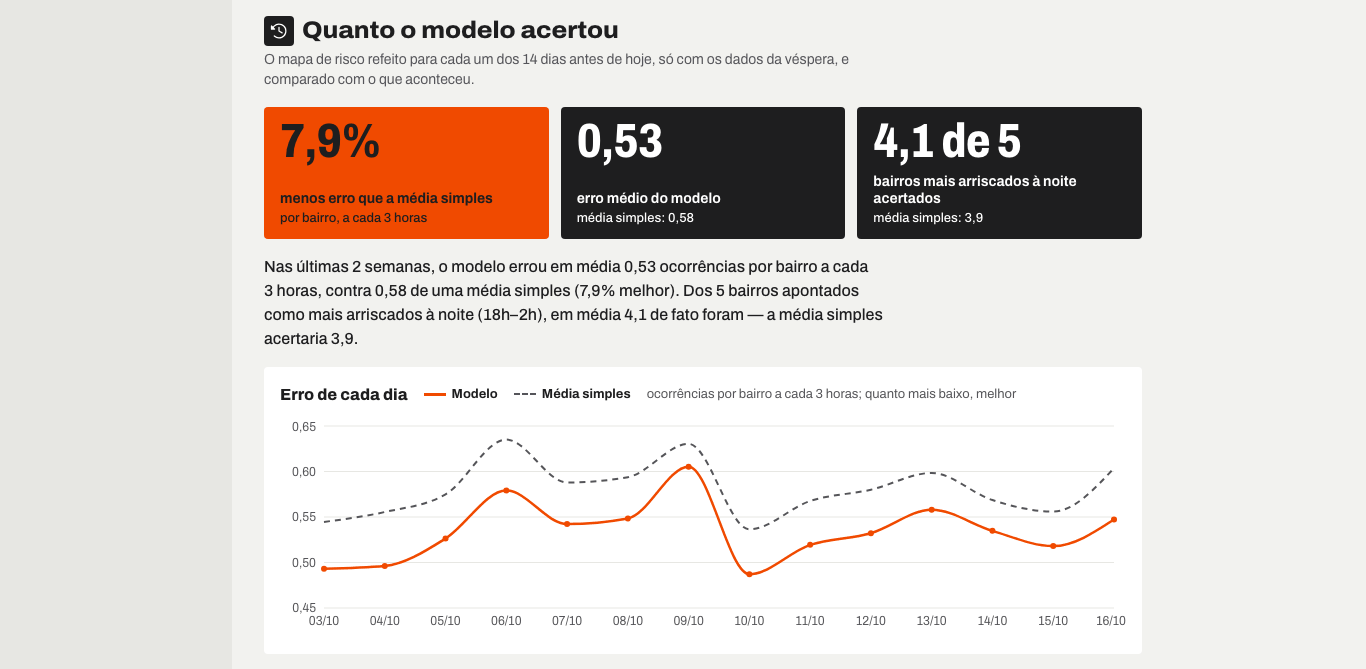
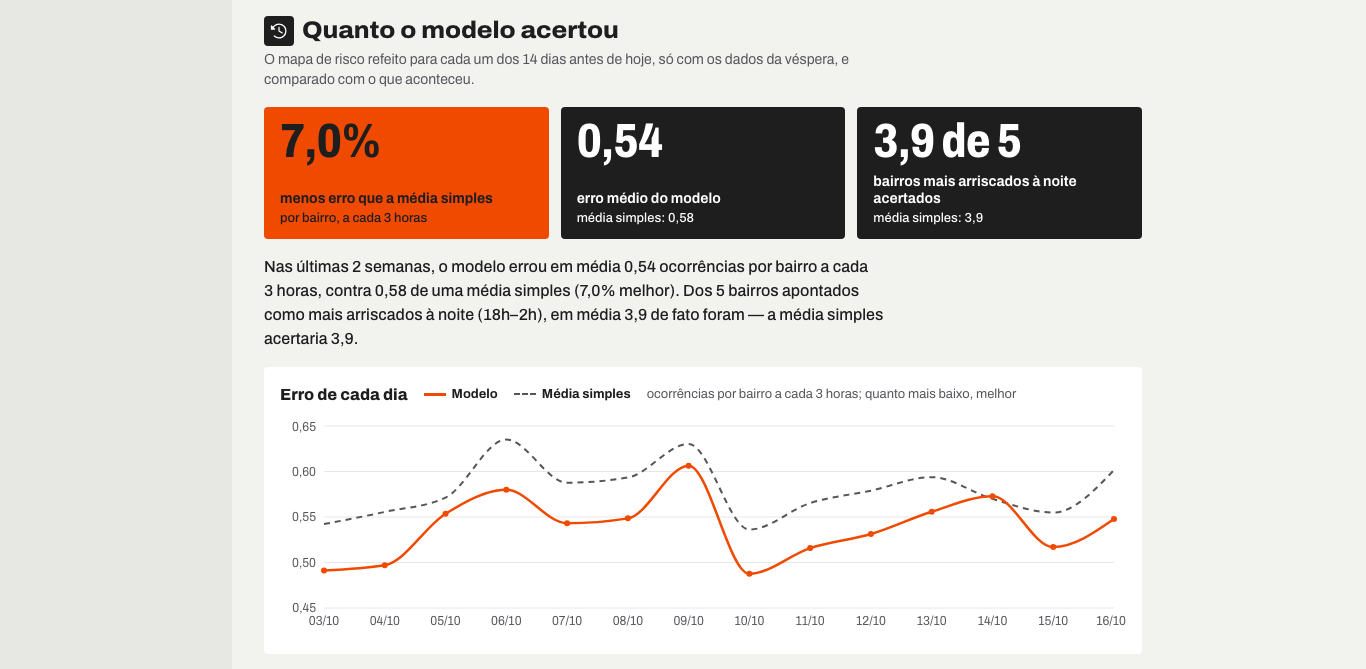
docs: números de uma medição nova (17/10/2026), regra do índice e comandos do Windows
- Teste retroativo, falhas, tendências, tempo da semente e a cena 60× + acidente
  injetado medidos num banco novo; o ganho caiu para 7,0% com a previsão de chuva
  guardada e o top-5 empata com a média simples, dito sem rodeio.
- Exemplo do risco refeito com os números do código (base, perfil da região, p99).
- Pergunta 9 do guia igual à declaração de IA do README.
- Regra do índice das regiões no ritmo real, furtos que só fecham com uma pessoa,
  previsões que aprendem só com o histórico (também depois de reiniciar).
- README: Node 22.14, comandos do PowerShell/cmd, token + leitura no PowerShell,
  rota do teste retroativo e métricas em /api/tipos-equipamento.
- Tela do teste retroativo trocada (7,0%, 0,54, 3,9 de 5).

diff --git a/docs/GUIA-DO-TIME.md b/docs/GUIA-DO-TIME.md
@@ -1,6 +1,6 @@
 # Guia do time — como explicar o F.O.G.O.
 
-Este guia é para quem vai **apresentar e responder à comissão**. A regra do desafio é demonstrar que vocês entendem o que a IA construiu: leiam, abram os arquivos citados e rodem o sistema enquanto estudam. Tudo aqui foi conferido contra o código e os testes.
+Este guia é para quem vai **apresentar e responder à comissão**. A regra do desafio é demonstrar que vocês entendem o que a IA construiu: leiam, abram os arquivos citados e rodem o sistema enquanto estudam. As fórmulas foram conferidas contra o código. Os números com data saíram de **uma só medição**, num banco novo criado em **17/10/2026 às 20h53** (sábado): no dia em que vocês rodarem, eles mudam um pouco, porque o histórico de 60 dias termina na hora em que o banco é criado. A força dos padrões plantados (seção 3) é a da calibração da semente, e os testes de `server/semente` exigem os limites.
 
 **Antes de qualquer coisa:** rodem `npm install && npm start`, abram http://localhost:3333 e façam o roteiro do README ("O que olhar primeiro"). Ver funcionando vale mais que decorar.
 
@@ -63,9 +63,9 @@ Quando o problema passa, o caminho inverso: três leituras normais seguidas fech
 
 ## 3. Como a semente planta os padrões
 
-`server/semente/` cria, **na primeira partida**, 65 bairros reais, 350 equipamentos, 80 agentes e 60 dias de histórico (cerca de 17,6 mil ocorrências e 452 mil horas de telemetria) em ~1,5 s. Tudo sai de um gerador com **semente fixa (2026)**: mesma semente, mesma cidade. Não há `Math.random()`.
+`server/semente/` cria, **na primeira partida**, 65 bairros reais, 350 equipamentos, 80 agentes e 60 dias de histórico (17.643 ocorrências e 451.957 horas de telemetria em 3,6 s, medidos em 17/10/2026). Tudo sai de um gerador com **semente fixa (2026)**: mesma semente, mesma cidade. Não há `Math.random()`.
 
-Os padrões são colocados de propósito em `historico.ts` e `perfis.ts`; a previsão deve **redescobri-los**. Força medida (semente padrão):
+Os padrões são colocados de propósito em `historico.ts` e `perfis.ts`; a previsão deve **redescobri-los**. Força medida na calibração da semente padrão:
 
 | Padrão plantado | Medido |
 |---|---|
@@ -78,43 +78,46 @@ Os padrões são colocados de propósito em `historico.ts` e `perfis.ts`; a prev
 | Sinal cai 12–48 h **antes** de uma falha | 45 min online/h nas 24 h antes, contra 58 no geral |
 | Equipes "negligentes" deixam manutenção atrasar | 10 equipamentos atrasados |
 
-Os testes (`server/semente/*.test.ts`) exigem esses limites. Outros cuidados: reiniciar com o banco existente **não duplica** nada; se o avaliador abrir dias depois, `preencherLacuna` gera as horas que faltam até "agora" (guarda o ponto em `meta.historico_ate`).
+Os testes (`server/semente/*.test.ts`) exigem esses limites. Outros cuidados: reiniciar com o banco existente **não duplica** nada; se o avaliador abrir dias depois, `preencherLacuna` gera as horas que faltam até "agora" (guarda o ponto em `meta.historico_ate`) e completa a hora em que o servidor parou (sem isso, todo equipamento ganhava "1 hora com sinal fraco"). A semente também guarda, para cada dia, a **previsão do tempo da véspera** (`clima_dia.chuva_prevista_mm` = a chuva que cai mais um erro: 80% dos dias de chuva são anunciados, e 10% dos dias secos têm alarme falso).
 
 ---
 
 ## 4. Cada previsão, com um exemplo numérico
 
-Todas estão em `server/preditivo/`, em TypeScript simples. A **base comum** (`base.ts`) usa as 8 últimas semanas, só ocorrências de origem `historico`.
+Todas estão em `server/preditivo/`, em TypeScript simples. A **base comum** (`base.ts`) usa as 8 últimas semanas, só ocorrências de origem `historico`, e **nada depois do fim do histórico** (`fimDosDados` = `meta.historico_ate` + 1 h). Falhas e tendências seguem a mesma regra; as mudanças de situação feitas ao vivo levam a marca `ao_vivo` e ficam de fora mesmo depois de reiniciar.
 
 ### 4.1 Risco por bairro e hora (`risco.ts`)
-`taxa = base do bairro × perfil da região no dia da semana e hora × chuva do dia × tendência da cidade`.
-- **Base do bairro** (suavizada): `(ocorrências + 20 × média dos bairros) ÷ (horas + 20)`. O Centro: (1.692 + 3,8) ÷ 1.364 h = **1,24/h**. A suavização evita que um bairro com poucos dados vire extremo.
-- **Perfil**: taxa da região naquele horário ÷ taxa média, puxado para o perfil da cidade quando há poucos dados. Dia útil às 18 h: **2,15**; terça às 3 h: **0,36**.
-- **Índice 0–100** = `100 × taxa ÷ p99 do período`. Centro na terça às 3 h: 1,24 × 0,36 × 0,98 = 0,44 → **33 (moderado)**; sexta às 18 h: 2,63 → **100 (crítico)**.
-- Níveis: < 25 baixo, < 50 moderado, < 75 alto, ≥ 75 crítico. Os "fatores" mostram o que pesou (ex.: "Região Centro na sexta à noite ×1,73").
-- A janela de 7 dias é em blocos de 3 h (resposta menor).
+`taxa = base do bairro × perfil da região no dia da semana e hora × chuva prevista do dia × tendência da cidade`. Exemplo da medição de 17/10/2026 (bairro Centro, região Centro, previsão das 20 h de sábado em diante):
+- **Base do bairro** (suavizada): `(ocorrências + 20 × média dos bairros) ÷ (horas + 20)`. O Centro teve 1.681 ocorrências em 1.344 h; bairro médio 0,187/h → (1.681 + 20 × 0,187) ÷ 1.364 = **1,235/h** (sem suavizar daria 1,251). A suavização evita que um bairro com poucos dados vire extremo.
+- **Perfil da região** (dia da semana × hora): `(ocorrências da região no horário ÷ média da região + 8 × perfil da cidade) ÷ (horas do horário + 8)`. Sábado às 22 h, região Centro: 74 ocorrências nessas 8 horas, média da região 4,05/h → 74 ÷ 4,05 = 18,3; perfil da cidade 1,50 → (18,3 + 8 × 1,50) ÷ 16 = **1,89**. Domingo às 3 h: 13 ÷ 4,05 = 3,2; cidade 0,36 → **0,38**.
+- **Chuva**: dias de chuva tiveram 15% mais ocorrências (11 dias de chuva, 44 secos → fator 1,15); vale só se a **previsão do tempo guardada** anuncia chuva para o dia. Neste sábado e domingo, nenhuma → ×1. **Tendência** da cidade (2 últimas semanas ÷ 6 anteriores): 0,98.
+- **Taxa**: sábado 22 h = 1,235 × 1,89 × 1 × 0,98 = **2,30** ocorrências; domingo 3 h = 1,235 × 0,38 × 1 × 0,98 = **0,46**.
+- **Índice 0–100** = `100 × taxa ÷ percentil 99 das taxas das próximas 24 h` (aqui 1,32). Sábado 22 h: 174 → **100 (crítico)**; domingo 3 h: 0,46 ÷ 1,32 = **35 (moderado)**.
+- Níveis: < 25 baixo, < 50 moderado, < 75 alto, ≥ 75 crítico. Os "fatores" mostram o que pesou: na tela, a célula do sábado 22 h diz "Bairro com histórico alto ×6,59" (1,235 ÷ 0,187) e "Região Centro no sábado à noite ×1,89".
+- A janela de 7 dias é em blocos de 3 h (a taxa do bloco é a soma das 3 horas; resposta menor).
 
 ### 4.2 Teste retroativo (`backtest.ts`): "como sabem que funciona?"
-Para cada um dos 14 dias completos anteriores, **corta o histórico na meia-noite**, recalcula tudo só com o que se sabia até ali, prevê as 24 h e compara com o que aconteceu.
-- **Erro (MAE)** por bairro em blocos de 3 h, contra a "média simples do bairro". Em 17/10: 0,53 × 0,58 → 8% melhor. Nas medições de outubro: entre ~7% e ~9% (a tela recalcula todo dia).
-- **Top 5**: dos 5 bairros previstos como mais arriscados à noite (18h–2h), quantos de fato estiveram entre os 5 com mais ocorrências: ~4 de 5 (a média simples também acerta ~3,9).
-- **Por que não mais?** Com 0 ou 1 ocorrência por bairro e hora, a sorte domina. Rodamos o próprio gerador 600 vezes para estimar as taxas verdadeiras: mesmo quem **sabe a resposta** só melhora ~10%. O modelo chega a ≈ 82% desse teto.
+Para cada um dos 14 dias completos anteriores, **corta o histórico na meia-noite**, recalcula tudo só com o que se sabia até ali, prevê as 24 h e compara com o que aconteceu. A chuva do dia avaliado entra pela **previsão do tempo guardada**, não pela chuva que caiu: nada do próprio dia entra na conta.
+- **Erro (MAE)** por bairro em blocos de 3 h, contra a "média simples do bairro". Em 17/10/2026 (dias 03/10 a 16/10): 0,54 × 0,58 → **7,0% melhor**.
+- **Top 5**: dos 5 bairros previstos como mais arriscados à noite (18h–2h), quantos de fato estiveram entre os 5 com mais ocorrências: **3,9 de 5**, empatado com a média simples (3,9). Digam isso sem rodeio: o ganho do modelo está no horário, não na escolha dos 5 bairros.
+- **Por que não mais?** Com 0 ou 1 ocorrência por bairro e hora, a sorte domina. Rodamos o próprio gerador 600 vezes para estimar as taxas verdadeiras: mesmo quem **sabe a resposta** só melhora ~10%. O modelo chega a ≈ 70% desse teto. Quando o teste usava a chuva observada, dava ~8%; trocamos pela previsão guardada para o dia avaliado não vazar, e mostramos o número novo.
 
 ### 4.3 Reforço de agentes (`reforco.ts`)
-`carga por agente = ocorrências esperadas na região no turno ÷ agentes escalados`. Guloso, 1 agente por vez, da região mais folgada para a mais carregada, **enquanto** a maior carga estiver ≥ 20% acima da média da cidade e a origem não fique pior que o destino; no máximo 3 mudanças por turno. Exemplo (tarde de quinta): Centro 43 ocorrências ÷ 7 agentes = 6,1; Zona Leste 8,1 ÷ 3 = 2,7; mover 1 → Centro 5,4, Leste 4,1; ninguém acima do limite 6,0, para. Por que sugere o Centro? Ele tem ~33% das ocorrências com 25% dos agentes.
+`carga por agente = ocorrências esperadas na região no turno ÷ agentes escalados`. Guloso, 1 agente por vez, da região mais folgada para a mais carregada, **enquanto** a maior carga estiver ≥ 20% acima da média da cidade e a origem não fique pior que o destino; no máximo 3 mudanças por turno. Exemplo da medição de 17/10/2026 (noite de sábado, 22h às 6h): região Centro com 31,8 ocorrências esperadas para 5 agentes = 6,4 por agente, contra 2,0 na Zona Leste → mover 1 da Leste: Centro cai para 5,3; ainda acima do limite, vem 1 da Zona Norte (2,1 por agente): Centro 4,5. Por que sempre o Centro? Ele tem ~33% das ocorrências (4,05 por hora de 12,2 na cidade) com 25% dos agentes (20 de 80).
 
 ### 4.4 Chance de falha em 7 dias (`falhas.ts`)
 `λ = λ_tipo × fator_modelo × (1 + anos/5) × min(3, 1 + dias_de_atraso/30) × (1 + quedas_72h/3)` e `chance = 1 − e^(−7λ)` (Poisson: chance de pelo menos 1 falha em 7 dias).
 - `λ_tipo` = falhas do tipo ÷ (frota × 60 dias), **dividido pelo equipamento típico** (mediana dos fatores). Sem isso, a fórmula contava duas vezes a idade e o atraso médios e previa 1,87× as falhas reais.
-- `fator_modelo` = (falhas do modelo + 3) ÷ (falhas esperadas + 3). Vigilux VX-200: (51 + 3) ÷ (27,7 + 3) = **1,76**.
-- Exemplo: câmera com λ = 0,02/dia → 1 − e^(−0,14) = **13%**. A tela mostra "mais de 99%" em vez de "100%", porque nunca é certeza.
-- **Retroativo**: refaz a conta como se fosse 7 dias atrás. Em 4 semanas: 135 previstas × 139 ocorridas (15/10). Na última semana de 17/10: 33 × 40. Os 10% mais arriscados concentram 19–28% das falhas (acaso = 10%).
+- `fator_modelo` = (falhas do modelo + 3) ÷ (falhas esperadas + 3). Câmeras (17/10/2026): 79 falhas em 60 câmeras em 60 dias = 0,022/dia; Vigilux VX-200, 51 falhas em 21 câmeras, onde a média do tipo daria 0,022 × 21 × 60 = 27,7 → (51 + 3) ÷ (27,7 + 3) = **1,76**.
+- Exemplo: câmera com λ = 0,02/dia → 1 − e^(−0,14) = **13%**. A primeira da fila em 17/10/2026, FOGO-CAM-0059 (VX-200, 7,6 anos, 37 horas com sinal fraco nas últimas 72 h), aparece com 99%. A tela mostra "mais de 99%" em vez de "100%" quando passa disso, porque nunca é certeza.
+- **Só o histórico**: as falhas contadas, as quedas de sinal e a data de manutenção que entram no modelo são as do fim do histórico; a lista mostra quem está em operação **agora** (um equipamento que o simulador consertou volta para ela).
+- **Retroativo**: refaz a conta como se fosse 7 dias antes do fim do histórico. Em 17/10/2026: **32 previstas (31,6) × 40 ocorridas**; os 10% mais arriscados concentraram **28%** das falhas (acaso = 10%). Depois de 3 minutos a 60× (68 falhas ao vivo), os mesmos números.
 
 ### 4.5 Anomalias (`tempo-real/anomalias.ts`)
-`z = (leitura − média) ÷ desvio`, da mesma hora e tipo de dia (sábado compara com sábado). Alerta com |z| ≥ 3; desvio moderado precisa de 2 leituras seguidas; há piso de desvio (20% da média) para não alarmar por contagens baixas. Medimos: sem esses cuidados eram ~0,9 alertas falsos por minuto; com eles, ~0,09.
+`z = (leitura − média) ÷ desvio`, da mesma hora e tipo de dia (sábado compara com sábado). Alerta com |z| ≥ 3; desvio moderado precisa de 2 leituras seguidas; há piso de desvio (20% da média) para não alarmar por contagens baixas. Na construção do detector, esses cuidados derrubaram os alarmes falsos em cerca de 10 vezes (medição daquela etapa, não refeita nesta).
 
 ### 4.6 Tendências (`tendencias.ts`) e resumo (`resumo.ts`)
-Disponibilidade diária por tipo = tempo operacional ÷ tempo que conta (sem desativado/não instalado), reconstruída do `historico_situacao`; projeção = reta de mínimos quadrados de 30 pontos estendida por 7 dias. **Ela perde** para "repetir a média de 30 dias" (erro 4,9 × 4,1 p.p.) numa cidade estável, e a tela avisa. O resumo escolhe as melhores recomendações de cada fonte (máx. 5) e calcula o índice dos bairros.
+Disponibilidade diária por tipo = tempo operacional ÷ tempo que conta (sem desativado/não instalado), reconstruída do `historico_situacao` (só a parte do histórico); projeção = reta de mínimos quadrados de 30 pontos estendida por 7 dias. **Ela perde** para "repetir a média de 30 dias" numa cidade estável (17/10/2026: erro 4,9 × 4,1 p.p.; repetir o último valor, 4,4), e a tela avisa. Falhas por modelo: o Vigilux VX-200 teve 243 falhas por 100 câmeras, contra 66 do modelo mediano. O resumo escolhe as melhores recomendações de cada fonte (máx. 5) e calcula o índice dos bairros.
 
 ---
 
@@ -125,13 +128,17 @@ Disponibilidade diária por tipo = tempo operacional ÷ tempo que conta (sem des
 - Manutenção "agendada" ou "periódica" exige a próxima data.
 - Equipamento **furtado** não volta a "operacional" sem registro de recuperação.
 - **Excluir** equipamento com histórico (telemetria, alertas, agente vinculado) é **recusado**, com mensagem sugerindo **desativar**.
-- Editar um equipamento (PUT) **não apaga** posição atual, último sinal nem situação vinda da telemetria; trocar o tipo é recusado.
-- Registrar manutenção concluída reinicia o calendário (próxima = última + periodicidade) e devolve o equipamento a operacional, com histórico.
+- Editar um equipamento (PUT) **não apaga** posição atual, último sinal nem situação vinda da telemetria; trocar o tipo é recusado. Se a pessoa não mexeu no grupo de manutenção, o formulário nem manda essas datas e o servidor mantém as gravadas (um reparo concluído com o formulário aberto não é desfeito).
+- Editar um agente não muda a situação dele (em serviço, em ocorrência…): ela segue o turno e as ocorrências e só muda por "Mudar situação".
+- Registrar manutenção concluída reinicia o calendário (próxima = última + periodicidade) e devolve o equipamento a operacional, com histórico; se havia uma prevista do mesmo tipo, é ela que fica concluída. Agendar a mesma manutenção duas vezes dá **409** ("Já existe uma manutenção prevista para este equipamento").
+- Mudar a situação pela tela: tirar de **furtado** devolve o equipamento ao ponto cadastrado e fecha o alerta de furto; voltar a **operacional** fecha os alertas da falha e faz o simulador voltar a ouvi-lo.
 - Busca ignora acento e maiúsculas, e trata `%`, `_` e aspas como texto comum ("marilia" acha "Marília"; "50%" não casa tudo).
 - Equipamentos "não instalados" e "desativados" não entram no cálculo de disponibilidade.
 - Posição de equipamento móvel vem da telemetria; fixos usam o cadastro. Patinete fora de Marília gera alerta.
 
-**Como os alertas abrem e fecham:** abrem por anomalia, sem sinal por mais de 15 min, falha, furto suspeito, alagamento (sensor), manutenção atrasada e ocorrência. Um alerta igual **não se repete** enquanto o anterior estiver aberto. Fecham sozinhos quando a causa termina (ver seção 2); **furto suspeito e manutenção atrasada precisam de gente** (a atrasada fecha ao registrar a manutenção).
+**Como os alertas abrem e fecham:** abrem por anomalia, sem sinal por mais de 15 min, falha, furto suspeito, alagamento (sensor), manutenção atrasada e ocorrência. Um alerta igual **não se repete** enquanto o anterior estiver aberto. Fecham sozinhos quando a causa termina (ver seção 2); **furto suspeito e manutenção atrasada precisam de gente** (o furto fecha quando alguém registra a recuperação ou resolve o alerta; a atrasada, ao registrar a manutenção). O **acidente injetado** usa sempre a gravidade máxima (4 de 4), então sempre abre alerta crítico.
+
+**Índice das regiões no ritmo real:** cada ocorrência das últimas 3 h soma 4 pontos ao bairro, mas a gerada ao vivo pesa 1 ÷ (8 × velocidade em que começou), porque o simulador gera 8 vezes o ritmo real (vezes 10 ou 60); histórico e injetadas pesam 1. Assim 60× não pinta todas as regiões de vermelho (17/10/2026, depois de 3 min a 60×: só a região Centro crítica).
 
 ---
 
@@ -139,7 +146,10 @@ Disponibilidade diária por tipo = tempo operacional ÷ tempo que conta (sem des
 
 | Decisão | Por quê |
 |---|---|
-| Aprender só do histórico, não do simulador | O simulador acelera eventos (até 60×): 10 min a 60× = ~10 dias de ocorrências. Aprender com ele deformaria a previsão. |
+| Aprender só do histórico, não do simulador | O simulador acelera eventos (até 60×): em 17/10/2026, 3 min a 60× geraram 68 falhas, quase 1/4 das 286 do histórico inteiro de 60 dias. Aprender com ele deformaria a previsão. |
+| Ocorrência ao vivo com peso no índice das regiões | Sem o peso, 3 min a 60× deixavam as 5 regiões críticas por 3 horas reais. Com 1 ÷ (8 × velocidade), o índice mede a cidade no ritmo real e o acidente injetado (peso 1) continua aparecendo. |
+| Teste retroativo com a previsão do tempo guardada | Usar a chuva que caiu no dia avaliado era deixar o futuro vazar. O ganho caiu de ~8% para 7,0% e mostramos o número novo. |
+| Acidente injetado sempre na gravidade máxima | A demonstração fica previsível: o alerta crítico aparece toda vez. |
 | Relógio da simulação = relógio real | Nunca grava datas no futuro; "próximas 24 h" continua coerente. A velocidade só multiplica o ritmo dos eventos. |
 | Perfil por **região** e dia da semana | O perfil único da cidade escondia "sexta à noite no Centro"; por região o padrão aparece. |
 | Tendência da **cidade**, não do bairro | Por bairro, 10 de 65 batiam no limite por puro ruído e o acerto caía abaixo da média simples. |
@@ -153,13 +163,13 @@ Disponibilidade diária por tipo = tempo operacional ÷ tempo que conta (sem des
 ## 7. Como rodar os testes
 
 ```bash
-npm test             # 347 testes em 46 arquivos (~10 s)
+npm test             # 376 testes em 52 arquivos (~40 s numa máquina livre)
 npx vitest run server/preditivo      # só as previsões
 npm run typecheck    # TypeScript estrito
 npm run e2e          # fumaça: Central (6 indicadores + mapa), Previsões, ≥ 10 equipamentos
 ```
 
-Para mostrar a comissão: rodem `npm test` na tela e apontem os testes de `server/preditivo/backtest.test.ts` (provam que cortar o histórico não "vaza" o futuro) e `server/tempo-real/resolucao-automatica.test.ts`.
+Para mostrar a comissão: rodem `npm test` na tela e apontem os testes de `server/preditivo/backtest.test.ts` (provam que cortar o histórico não "vaza" o futuro, nem a chuva do próprio dia), `server/preditivo/vazamento-simulacao.test.ts` (10 min a 60× e um reinício não mudam as previsões), `server/servicos/regioes-velocidade.test.ts` (60× não pinta todas as regiões) e `server/tempo-real/resolucao-automatica.test.ts`.
 
 ---
 
@@ -169,19 +179,19 @@ Para mostrar a comissão: rodem `npm test` na tela e apontem os testes de `serve
 2. **Por que SQLite?** Zero instalação (um arquivo que o sistema cria sozinho), SQL puro e fácil de explicar, e rápido o bastante para 350 equipamentos e meio milhão de leituras. Para uma cidade de verdade com leituras a cada segundo, trocaríamos a telemetria por um banco de séries temporais.
 3. **Por que SSE e não WebSocket?** O fluxo é só do servidor para a tela, e SSE faz isso com HTTP simples, reconexão automática e menos código. WebSocket serve para conversa nos dois sentidos, que aqui não precisamos (as ações usam a API REST).
 4. **Como sabem que a previsão funciona?** Com teste retroativo: refazemos a previsão como se fosse ontem, 14 dias seguidos, e comparamos com o que aconteceu e com uma regra simples. Está na tela, com a data do cálculo.
-5. **Por que o ganho é de só ~8%?** Por bairro e hora há quase sempre 0 ou 1 ocorrência; a sorte domina. Mesmo conhecendo as taxas verdadeiras o limite seria ~10%. Preferimos o número honesto.
+5. **Por que o ganho é de só ~7%?** Por bairro e hora há quase sempre 0 ou 1 ocorrência; a sorte domina. Mesmo conhecendo as taxas verdadeiras o limite seria ~10%. E o teste não deixa nem a chuva do dia avaliado entrar (usa a previsão do tempo guardada). Preferimos o número honesto.
 6. **Os dados são reais?** Bairros, ruas e limite são reais (OpenStreetMap). Equipamentos, agentes e ocorrências são sintéticos, com padrões plantados de propósito, declarados no README.
 7. **Então a previsão só acha o que vocês plantaram?** Sim, e isso é a prova do método: se ele não achasse, estaria errado. Numa cidade real, o ajuste seria com os dados reais; o código e o teste retroativo continuam valendo.
 8. **E se fosse uma cidade real?** Trocaríamos a semente pela ingestão real (a `POST /api/telemetria` já é a porta que um equipamento usaria), usaríamos autenticação por usuário, banco para séries temporais e o teste retroativo para validar antes de confiar.
-9. **O que a IA fez e o que vocês fizeram?** O Claude Code (Opus 5.5 orquestrando e revisando, Sonnet 5.5 implementando) escreveu o código sob um plano e revisão por tarefa. Nós revisamos, rodamos e estudamos cada módulo e sabemos explicá-lo (este guia). Está declarado no README.
+9. **O que a IA fez e o que vocês fizeram?** O código foi escrito com o Claude Code: o Claude Opus 5.5 orquestrou o trabalho, revisou e implementou as partes mais complexas; o Claude Sonnet 5.5 implementou e revisou tarefas; o Claude Haiku 5.5 fez revisões curtas. Cada tarefa teve testes escritos antes do código e revisão independente. Nós revisamos, testamos e estudamos cada módulo e sabemos explicá-lo (este guia). Está declarado no README, com as mesmas palavras.
 10. **Como um dado IoT chega à tela?** Seção 2: ingestão → anomalia → alerta → barramento → SSE → interface.
 11. **Como evitam alerta duplicado?** Cada alerta tem uma chave (`anomalia:<equipamento>:<métrica>`); enquanto houver um aberto com a chave, não se cria outro.
-12. **Como evitam alarme falso?** Comparação com o normal **do mesmo equipamento naquela hora e tipo de dia**, |z| ≥ 3, confirmação em 2 leituras e piso de desvio. Isso derrubou os falsos de ~0,9 para ~0,09 por minuto.
-13. **O que acontece se o servidor reinicia?** Nada duplica; o histórico que faltou é completado até agora; o simulador retoma as ocorrências abertas; e a tela reconecta sozinha ao SSE.
+12. **Como evitam alarme falso?** Comparação com o normal **do mesmo equipamento naquela hora e tipo de dia**, |z| ≥ 3, confirmação em 2 leituras e piso de desvio (seção 4.5).
+13. **O que acontece se o servidor reinicia?** Nada duplica; o histórico que faltou é completado até agora (inclusive a hora em que ele parou); o simulador retoma as ocorrências abertas; as falhas geradas ao vivo continuam fora das previsões (origem `ao_vivo`); e a tela reconecta sozinha ao SSE.
 14. **Como a manutenção preditiva decide?** Pela chance de falha em 7 dias: idade, atraso de manutenção, quedas de sinal recentes e confiabilidade do modelo. Cada item mostra os fatores que pesaram.
 15. **Como garantem que o GPS é de Marília?** Teste de ponto dentro do polígono do município (limite do OpenStreetMap + margem) no cadastro; patinete que sai gera alerta.
 16. **Segurança?** O token de dispositivo é comparado em tempo constante, nunca sai pela API, e o erro de autenticação não revela quais códigos existem. Entradas validadas com zod; SQL parametrizado. Não há login de usuário: é limitação declarada.
-17. **Desempenho?** Central povoada abre em ~250 ms; mapa e indicadores respondem em poucos ms; marcadores agrupados; SSE em lotes. A 60× por 10 s, 0 tarefas longas (≥ 50 ms) no navegador.
+17. **Desempenho?** Com a cidade povoada, os testes exigem mapa e indicadores em menos de 100 ms e regiões em menos de 200 ms (`server/servicos/central.test.ts`); marcadores agrupados; posições pelo SSE em lotes de 2 s; o simulador isola o erro de cada item para um problema não parar o tick.
 18. **Por que o modo escuro não é automático?** Decisão de produto: tema claro por padrão; a "Sala de controle" (escuro) é uma escolha de quem opera em ambiente com pouca luz.
 19. **Roda sem internet?** Sim, exceto o fundo do mapa (OpenStreetMap). O ViaCEP é opcional.
 20. **O que faltou ou faria depois?** Login e permissões, banco de séries temporais, validação com dados reais, e perfil por região também para a tendência. Os limites estão no README.
@@ -192,6 +202,6 @@ Para mostrar a comissão: rodem `npm test` na tela e apontem os testes de `serve
 
 - **Pessoa 1 — Inventário e dados** (≈ 3 min): cadastro, filtros, ficha, regras de negócio (seção 5), como a semente planta padrões (seção 3), API e Swagger.
 - **Pessoa 2 — Central em tempo real** (≈ 3 min): demonstração ao vivo (60× + injetar acidente), o caminho do dado (seção 2), alertas que abrem e fecham, SSE × WebSocket, desempenho.
-- **Pessoa 3 — Previsões e IA** (≈ 3 min): "o que prevê / dados / como ajuda / quão certa foi", um exemplo numérico de cada (seção 4), o teste retroativo e a honestidade sobre o 8%, declaração de uso de IA.
+- **Pessoa 3 — Previsões e IA** (≈ 3 min): "o que prevê / dados / como ajuda / quão certa foi", um exemplo numérico de cada (seção 4), o teste retroativo e a honestidade sobre o 7% (e o empate nos 5 bairros), declaração de uso de IA.
 
 Todos: respondam as perguntas da seção 8 que tocam a sua parte, e abram o código no arquivo citado quando a comissão pedir "mostra onde".

diff --git a/README.md b/README.md
@@ -12,13 +12,13 @@ São três partes, num único sistema:
 
 ## Como rodar em 1 minuto
 
-**Com Node.js 22 ou mais novo** (o `better-sqlite3` 13 exige Node ≥ 22; testado em 22):
+**Com Node.js 22.14 ou mais novo** (recomendado: a LTS atual). Confira com `node -v`: numa versão mais velha, o `npm start` para logo no começo com uma mensagem em português que sugere instalar a LTS ou usar o Docker (o `better-sqlite3` 13 traz o binário pronto para a Node-API 10, que chegou no Node 22.14).
 
 ```bash
 npm install && npm start
 ```
 
-Abra **http://localhost:3333**. Na primeira vez o sistema compila a interface e cria sozinho o banco `data/fogo.db` com a cidade inteira (cerca de 2 segundos). Não há banco, chave ou conta para configurar.
+Abra **http://localhost:3333**. Na primeira vez o sistema compila a interface e cria sozinho o banco `data/fogo.db` com a cidade inteira (poucos segundos: 3,6 s numa medição de 17/10/2026). Não há banco, chave ou conta para configurar.
 
 **Com Docker** (se preferir não instalar o Node):
 
@@ -28,14 +28,22 @@ docker compose up --build
 
 O banco fica num volume (`fogo-dados`): sobrevive a `docker compose down`; `docker compose down -v` recomeça do zero.
 
-Porta ocupada? `PORT=3334 npm start` (o sistema avisa e sugere a próxima porta). Outro arquivo de banco: `FOGO_DB=./data/outro.db npm start`.
+Porta ocupada? O sistema avisa e sugere a próxima. Para escolher a porta ou outro arquivo de banco:
+
+| Terminal | Outra porta | Outro arquivo de banco |
+|---|---|---|
+| macOS / Linux | `PORT=3334 npm start` | `FOGO_DB=./data/outro.db npm start` |
+| Windows (PowerShell) | `$env:PORT=3334; npm start` | `$env:FOGO_DB="./data/outro.db"; npm start` |
+| Windows (cmd) | `set PORT=3334&& npm start` | `set FOGO_DB=./data/outro.db&& npm start` |
+
+No PowerShell e no cmd a variável vale até fechar aquele terminal.
 
 > Só os **blocos do mapa** (OpenStreetMap) precisam de internet. Sem ela, o mapa fica sem o fundo de ruas, mas os pontos, polígonos e o resto continuam funcionando.
 
 ## O que olhar primeiro (roteiro de 2 minutos)
 
 1. **Central** (`/`): seis placas de cor cheia, mapa com equipamentos agrupados por situação, agentes deslizando, bairros pintados pelo índice de atenção e o feed de alertas à direita.
-2. Barra no rodapé do mapa: clique em **60×** e depois em **Injetar evento → Acidente**. Em segundos aparece o alerta crítico, um agente é despachado ao local e o bairro muda de cor. Quando a ocorrência termina, o alerta se resolve sozinho (fica registrado como resolução automática).
+2. Barra no rodapé do mapa: clique em **60×** e depois em **Injetar evento → Acidente**. Na hora aparece o alerta **crítico** (o acidente injetado usa sempre a gravidade máxima), o agente mais próximo é despachado ao local e o índice do bairro sobe 29 pontos (alerta crítico + ocorrência). Na medição de 17/10/2026 o bairro passou de normal (24) para atenção (53). A 60× a ocorrência dura segundos: o alerta se resolve sozinho (fica registrado como resolução automática). Mesmo depois de 3 minutos a 60×, as regiões continuam distintas (17/10/2026: Centro 65, crítico; Sul 46, Oeste 38 e Norte 30, atenção; Leste 8, normal), porque o índice mede a cidade no ritmo real (veja "Decisões e limitações").
 3. Clique num marcador: a **ficha lateral** abre com situação, manutenção e ações; "Abrir ficha completa" mostra a linha do tempo, o gráfico de telemetria e os alertas.
 4. **Previsões** (`/previsoes`): comece pelo "Resumo do dia" e role até **"Quanto acertou"**: é o teste retroativo, onde a previsão feita na véspera é comparada com o que de fato aconteceu.
 5. Interruptor **Sala de controle** (topo): modo escuro grafite, só por escolha do usuário.
@@ -71,8 +79,8 @@ Tela de Previsões completa: [docs/telas/previsoes-topo.png](docs/telas/previsoe
                  Interface React (mapa Leaflet, feed, placas)
 
  SQLite (data/fogo.db)  ──►  Previsões: risco, reforço, falhas, tendências
- (60 dias de histórico        calculadas sobre o HISTÓRICO e comparadas com o passado
-  + o que chega ao vivo)
+ (60 dias de histórico        calculadas só sobre o HISTÓRICO e comparadas com o passado
+  + o que chega ao vivo)      (o que a simulação gera ao vivo fica de fora)
 ```
 
 | Camada | Tecnologia |
@@ -89,40 +97,42 @@ Código compartilhado entre servidor e interface fica em `shared/` (tipos, regra
 | Entidade | O que guarda |
 |---|---|
 | **equipamentos** | código legível (`FOGO-RAD-0007`), tipo (13), nº de série único, marca, modelo, órgão, **situação** (`operacional`, `mau_funcionamento`, `em_manutencao`, `desativado`, `furtado`, `nao_instalado`), endereço (CEP, logradouro, referência, bairro), latitude/longitude, posição atual (móveis), último sinal, manutenção (necessidade, periodicidade, última e próxima data), características do tipo (JSON validado) |
-| **historico_situacao** | cada mudança de situação, com motivo e data |
+| **historico_situacao** | cada mudança de situação, com motivo, data e origem (`historico` da semente ou `ao_vivo`, do simulador e da tela) |
 | **agentes** | nome, matrícula, categoria, órgão, situação (`em_servico`, `em_ocorrencia`, `pausa`, `fora_de_servico`), turno, base, posição, equipamento vinculado |
 | **bairros** | 65 bairros reais de Marília (OpenStreetMap): região (Centro/Norte/Sul/Leste/Oeste), centro e polígono |
-| **ocorrencias** | acidente, congestionamento, infração, furto/vandalismo, veículo quebrado, alagamento, segurança; gravidade, local, início/fim, origem (`historico`, `tempo_real`, `injetado`), agente |
+| **ocorrencias** | acidente, congestionamento, infração, furto/vandalismo, veículo quebrado, alagamento, segurança; gravidade, local, início/fim, origem (`historico`, `tempo_real`, `injetado`), agente e o peso no índice das regiões |
 | **telemetria_hora** | uma linha por equipamento e hora, com as métricas do tipo (fluxo, bateria, sinal…) |
 | **manutencoes** | ordens (preventiva/corretiva), previstas e concluídas |
 | **alertas** | criticidade (crítica, alta, média, baixa), tipo, explicação, reconhecido/resolvido (manual ou automático) |
-| **clima_dia** | chuva observada e prevista |
+| **clima_dia** | chuva que caiu e a previsão do tempo da véspera (as previsões usam a previsão, nunca a chuva que caiu no dia previsto) |
 
 Datas no banco: texto ISO 8601 em UTC. Na tela: `dd/mm/aaaa HH:mm` no fuso de São Paulo. Toda coordenada cadastrada precisa cair dentro do limite do município.
 
 ## Como cada previsão funciona
 
-Fórmula em uma linha e o exemplo com os números reais da cidade de exemplo. Os detalhes passo a passo estão no [guia do time](docs/GUIA-DO-TIME.md).
+Fórmula em uma linha e um exemplo. Os exemplos saíram de um banco novo criado em 17/10/2026 às 20h53 (sábado); num outro dia os números mudam um pouco, porque o histórico de 60 dias termina na hora em que o banco é criado. Os detalhes passo a passo estão no [guia do time](docs/GUIA-DO-TIME.md).
 
-- **Risco por bairro e hora** — `taxa = base do bairro × perfil da região naquele dia da semana e hora × chuva do dia × tendência da cidade`; o índice (0 a 100) compara a taxa com o p99 do período. Ex.: o Centro numa sexta às 18 h tem taxa ≈ 2,6 ocorrências/h e índice 100 (crítico); terça às 3 h dá ≈ 0,44 e índice 33.
-- **Reforço de agentes** — `carga por agente = ocorrências esperadas na região no turno ÷ agentes escalados`; move-se 1 agente por vez da região mais folgada para a mais sobrecarregada, até 20% acima da média da cidade. Ex.: Centro 6,1 ocorrências por agente na tarde de quinta contra 2,7 na Zona Leste → "mande 1 agente da Zona Leste para o Centro".
-- **Chance de falha em 7 dias** — `λ = taxa do tipo × fator do modelo × (1 + anos/5) × atraso da manutenção × quedas de sinal recentes; chance = 1 − e^(−7λ)`. Ex.: câmera Vigilux VX-200 de 7,6 anos com muitas quedas de sinal aparece com "mais de 99%"; uma câmera média e sem sinais fica perto de 13%.
+- **Risco por bairro e hora** — `taxa = base do bairro × perfil da região naquele dia da semana e hora × chuva prevista do dia × tendência da cidade`; o índice (0 a 100) compara a taxa com o percentil 99 das próximas 24 h. Ex.: bairro Centro no sábado às 22 h: 1,235 × 1,89 (região Centro, sábado 22 h) × 1 (sem chuva prevista) × 0,98 = 2,30 ocorrências/h → índice 100 (crítico); no domingo às 3 h: 1,235 × 0,38 × 1 × 0,98 = 0,46 → 0,46 ÷ 1,32 (p99) = índice 35 (moderado).
+- **Reforço de agentes** — `carga por agente = ocorrências esperadas na região no turno ÷ agentes escalados`; move-se 1 agente por vez da região mais folgada para a mais sobrecarregada, enquanto a maior carga passar 20% da média da cidade. Ex.: noite de sábado (22h às 6h), região Centro com 31,8 ocorrências esperadas para 5 agentes = 6,4 por agente, contra 2,0 na Zona Leste → "mande 1 agente da Zona Leste para a região Centro" (Centro cai para 5,3).
+- **Chance de falha em 7 dias** — `λ = taxa do tipo × fator do modelo × (1 + anos/5) × atraso da manutenção × quedas de sinal recentes; chance = 1 − e^(−7λ)`. Ex.: a câmera FOGO-CAM-0059 (Vigilux VX-200, 7,6 anos, 37 horas com sinal fraco nas últimas 72 h) aparece em primeiro, com 99%. Pela fórmula, λ = 0,02 por dia dá 1 − e^(−0,14) = 13%.
 - **Anomalias em tempo real** — compara cada leitura com a média e o desvio **do mesmo equipamento, na mesma hora e tipo de dia**; vira alerta quando |z| ≥ 3 (com confirmação em leituras seguidas). Ex.: radar com fluxo ≈ 0 no horário de pico.
-- **Tendências** — disponibilidade por tipo (30 dias + reta de mínimos quadrados por 7 dias), uso de patinetes por bairro e falhas por 100 equipamentos de cada marca/modelo. Ex.: o modelo ruim (VX-200) tem 243 falhas por 100 câmeras contra 66 do modelo mediano.
+- **Tendências** — disponibilidade por tipo (30 dias + reta de mínimos quadrados por 7 dias), uso de patinetes por bairro e falhas por 100 equipamentos de cada marca/modelo. Ex.: o modelo ruim (Vigilux VX-200) tem 243 falhas por 100 câmeras contra 66 do modelo mediano.
 
 ### Quão certas elas são (teste retroativo)
 
-A tela de Previsões **refaz a previsão como se fosse ontem, 14 dias seguidos**, e compara com o que aconteceu. Os números são recalculados todo dia, então variam um pouco; os de outubro de 2026:
+A tela de Previsões **refaz a previsão como se fosse a véspera, 14 dias seguidos**, e compara com o que aconteceu. Cada dia é previsto só com os dados até a meia-noite anterior, e a chuva do dia entra pela **previsão do tempo guardada** (que às vezes erra), nunca pela chuva que caiu. Todos os números abaixo são de uma mesma medição: banco novo, 17/10/2026 às 20h53 (dias avaliados: 03/10 a 16/10). A tela recalcula a cada dia, então eles variam um pouco.
 
 | Medida | Resultado |
 |---|---|
-| Erro por bairro em blocos de 3 h, contra repetir a média de cada bairro | **entre ~7% e ~9% menor** (17/10 às 19h: 0,53 × 0,58 ocorrência, 8% menor) |
-| Dos 5 bairros apontados como mais arriscados à noite (18h–2h), quantos acertou | 4,0 de 5 (medido em 15/10) e 3,9 de 5 (17/10); a média simples acerta 3,9 |
-| Falhas de equipamento | em 4 semanas seguidas, **135 previstas × 139 ocorridas** (15/10); na última semana, 33 previstas × 40 ocorridas (17/10) |
-| Os 10% de equipamentos apontados como mais arriscados | concentraram 19% a 28% das falhas (ao acaso seriam 10%) |
-| Projeção de disponibilidade em 7 dias | erra ~4,9 p.p., **pior** que repetir a média de 30 dias (4,1): a tela avisa "use para ver a direção" |
+| Erro por bairro em blocos de 3 h, contra repetir a média de cada bairro | 0,54 × 0,58 ocorrência: **7,0% menor** |
+| Dos 5 bairros apontados como mais arriscados à noite (18h–2h), quantos acertou | **3,9 de 5**, o mesmo que a média simples (3,9): aqui o modelo empata |
+| Falhas de equipamento na última semana | **32 previstas** (31,6) **× 40 ocorridas** |
+| Os 10% de equipamentos apontados como mais arriscados | concentraram **28%** das falhas da semana (ao acaso seriam 10%) |
+| Projeção de disponibilidade em 7 dias | erra 4,9 p.p., **pior** que repetir a média de 30 dias (4,1) e o último valor (4,4): a tela avisa "use para ver a direção" |
 
-**Por que o ganho de ~8% e não 30%?** Por bairro e hora quase sempre há 0 ou 1 ocorrência, então boa parte do erro é pura sorte. Mesmo conhecendo as taxas verdadeiras usadas para gerar os dados, o máximo de melhora possível seria cerca de 10%; o modelo chega a cerca de 82% desse teto. Preferimos mostrar o número honesto a escolher uma métrica que o inflasse.
+Nessa mesma medição, 3 minutos a 60× geraram 415 ocorrências e 68 falhas ao vivo (o histórico inteiro de 60 dias tem 286 falhas) e **nenhum desses números mudou**: as previsões só aprendem com o histórico.
+
+**Por que o ganho de ~7% e não 30%?** Por bairro e hora quase sempre há 0 ou 1 ocorrência, então boa parte do erro é pura sorte. Mesmo conhecendo as taxas verdadeiras usadas para gerar os dados, o máximo de melhora possível seria cerca de 10% (cálculo com o próprio gerador); o modelo chega a cerca de 70% desse teto. Antes de trocarmos a chuva observada pela previsão guardada, a mesma tela mostrava ~8%: a diferença é o preço de não deixar o dia previsto vazar para a previsão. Preferimos mostrar o número honesto a escolher uma métrica que o inflasse.
 
 ## API
 
@@ -130,13 +140,15 @@ Documentação interativa (Swagger): **http://localhost:3333/api/docs**. Princip
 
 | Grupo | Rotas |
 |---|---|
-| Inventário | `GET/POST /api/equipamentos`, `GET/PUT/DELETE /api/equipamentos/:id`, `PATCH …/situacao`, `POST …/manutencoes`, `GET …/telemetria`; `GET/POST /api/agentes`, `GET/PUT/DELETE /api/agentes/:id`; `GET /api/bairros`, `GET /api/tipos-equipamento` |
+| Inventário | `GET/POST /api/equipamentos`, `GET/PUT/DELETE /api/equipamentos/:id`, `PATCH …/situacao`, `POST …/manutencoes`, `GET …/telemetria`; `GET/POST /api/agentes`, `GET/PUT/DELETE /api/agentes/:id`, `PATCH …/situacao`; `GET /api/bairros`, `GET /api/tipos-equipamento` (com as métricas de telemetria de cada tipo) |
 | Central | `GET /api/central/{indicadores,mapa,regioes,ocorrencias}`, `GET /api/alertas`, `PATCH /api/alertas/:id/{reconhecer,resolver}`, `GET /api/manutencao/painel` |
 | Tempo real | `POST /api/telemetria`, `GET /api/stream` (SSE), `GET/PATCH /api/simulacao`, `POST /api/simulacao/eventos` |
-| Previsões | `GET /api/previsoes/{risco,reforco,falhas,tendencias,resumo}` |
+| Previsões | `GET /api/previsoes/{risco,backtest,reforco,falhas,tendencias,resumo}` (`backtest` = o teste retroativo do risco) |
 | Saúde | `GET /api/saude` |
 
-**Enviando uma leitura como se fosse um equipamento.** Cada equipamento tem um token (gerado na semente, nunca devolvido pela API). Para pegar o de um equipamento do **seu banco local**:
+**Enviando uma leitura como se fosse um equipamento.** Cada equipamento tem um token (gerado na semente, nunca devolvido pela API). Para pegar o de um equipamento do **seu banco local** e mandar uma leitura (com o servidor ligado):
+
+macOS / Linux:
 
 ```bash
 TOKEN=$(npm run -s token -- FOGO-RAD-0001)
@@ -148,12 +160,23 @@ curl -X POST http://localhost:3333/api/telemetria \
 # → 202 {"aceita":true}
 ```
 
-As métricas aceitas dependem do tipo (ex.: radar = `fluxo`, `velocidadeMedia`, `infracoes`; veja `GET /api/tipos-equipamento`). Sem token, ou com o token de outro equipamento, a resposta é `401`.
+Windows (PowerShell):
+
+```powershell
+$token = npx tsx scripts/token.ts FOGO-RAD-0001   # o mesmo que "npm run token", sem o "--" que o PowerShell pode engolir
+
+Invoke-RestMethod -Method Post -Uri http://localhost:3333/api/telemetria `
+  -ContentType "application/json" -Headers @{ "x-dispositivo-token" = $token } `
+  -Body '{"codigo":"FOGO-RAD-0001","metricas":{"fluxo":412,"velocidadeMedia":38.5,"infracoes":3}}'
+# → aceita: True
+```
+
+As métricas aceitas dependem do tipo (ex.: radar = `fluxo`, `velocidadeMedia`, `infracoes`): a lista completa, com rótulo e unidade, está no campo `metricas` de `GET /api/tipos-equipamento`. Métrica que não existe para o tipo responde `400` dizendo quais valem. Sem token, ou com o token de outro equipamento, a resposta é `401`.
 
 ## Testes
 
 ```bash
-npm test            # Vitest: servidor, regras, previsões e interface (347 testes em 46 arquivos)
+npm test            # Vitest: servidor, regras, previsões e interface (376 testes em 52 arquivos)
 npm run typecheck   # TypeScript estrito, servidor e interface
 npm run e2e         # Playwright: sobe o app com banco próprio (porta 3399) e confere Central, Previsões e Equipamentos
 ```
@@ -165,10 +188,12 @@ O E2E usa `data/e2e.db` e o apaga ao terminar; não mexe no seu `data/fogo.db`. 
 ## Decisões e limitações (sem maquiagem)
 
 - **Os dados são sintéticos.** Bairros e ruas são reais (OpenStreetMap), mas equipamentos, agentes, ocorrências e 60 dias de telemetria são gerados com semente fixa e **padrões plantados** de propósito (picos de 7–9 h e 17–19 h, sexta/sábado à noite no Centro, chuva com mais acidentes, um modelo de câmera pouco confiável, furtos de patinete em dois bairros). A previsão "redescobre" esses padrões; isso prova que o método funciona, **não** que ele acertaria numa cidade real sem ajuste.
-- **O simulador é acelerado de propósito** para a demonstração: ocorrências, falhas e furtos ao vivo acontecem muito mais depressa que na vida real. Por isso as previsões aprendem **só com o histórico**, não com o que o simulador gera ao vivo nem com eventos injetados.
+- **O simulador é acelerado de propósito** para a demonstração: ocorrências, falhas e furtos ao vivo acontecem muito mais depressa que na vida real. Por isso as previsões aprendem **só com o histórico**: todas as entradas (ocorrências, falhas, telemetria, mudanças de situação) param no fim do histórico gerado, e as mudanças de situação feitas ao vivo levam a marca `ao_vivo`, então continuam de fora mesmo depois de reiniciar. Eventos injetados também ficam de fora. A lista de "falhas prováveis" mostra os equipamentos em operação **agora**: um equipamento que o simulador consertou volta para a lista.
+- **A situação das regiões mede a cidade no ritmo real.** O índice soma 4 pontos por ocorrência das últimas 3 h, mas cada ocorrência gerada ao vivo pesa 1 ÷ (8 × a velocidade em que começou), porque o simulador produz 8 vezes o ritmo real (vezes 10 ou 60); histórico e eventos injetados pesam 1. O painel mostra as duas contas ("192 ocorrências nas últimas 3 h (contam como 6,5 no ritmo real)").
+- **Furtos ao vivo só fecham com uma pessoa**: o patinete furtado fica fora da cidade e com alerta crítico até alguém registrar a recuperação (ele volta ao ponto-base e o alerta fecha) ou resolver o alerta. Deixando 60× ligado por muito tempo, esses furtos se acumulam no índice dos bairros.
 - A velocidade 10× e 60× multiplica o ritmo de eventos, mas o relógio é o relógio real (nada é gravado no futuro).
 - **Se o avaliador abrir dias depois**, o histórico é completado até "agora" ao iniciar (a lacuna é preenchida), então "próximas 24 h" continua valendo. A lacuna não cria falhas novas de equipamento; o simulador ao vivo cria.
-- O ganho do risco por bairro é modesto (~8%), pelas razões acima; a projeção linear de disponibilidade é pior que repetir a média nesta cidade estável. Dizemos isso na própria tela.
+- O ganho do risco por bairro é modesto (~7%) e, nos 5 bairros mais arriscados à noite, o modelo empata com a média simples, pelas razões acima; a projeção linear de disponibilidade é pior que repetir a média nesta cidade estável. Dizemos isso na própria tela.
 - Sem login nem permissões: é uma ferramenta de demonstração, e o token por equipamento só protege a entrada de telemetria.
 - O mapa precisa de internet para o fundo de ruas; o ViaCEP (preenchimento de CEP) é opcional e o cadastro funciona sem ele.
 - SQLite atende bem a um município simulado; para milhões de leituras por dia o caminho seria um banco de séries temporais (discutido no guia).
